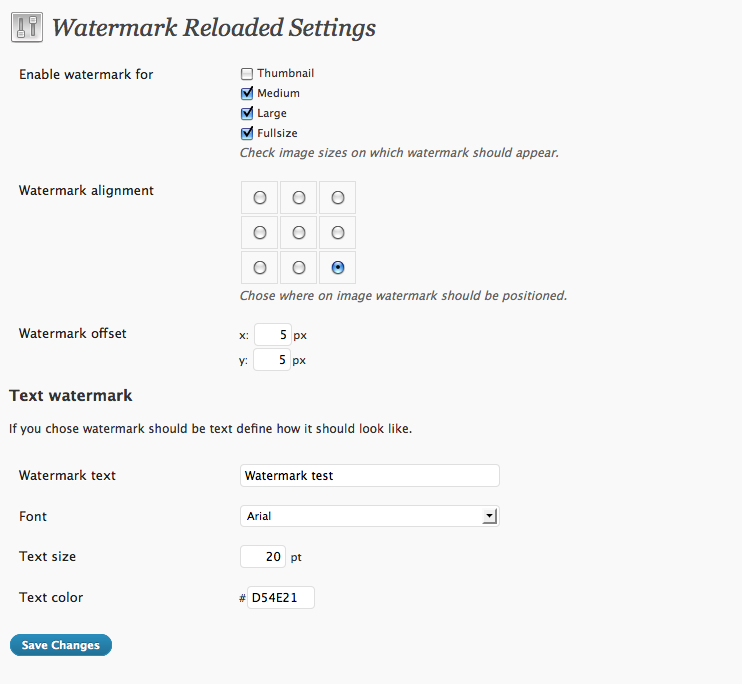
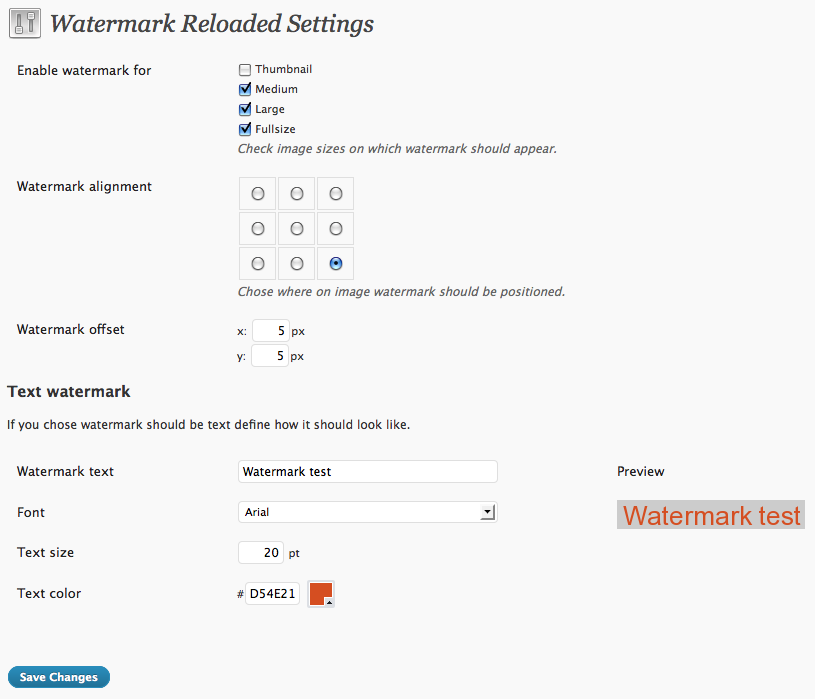
git-svn-id: https://plugins.svn.wordpress.org/watermark-reloaded/trunk@228416 b8457f37-d9ea-0310-8a92-e5e31aec5664

diff --git a/script.js b/script.js
@@ -1,14 +1,25 @@
 jQuery(document).ready(function() {
-	// hide color input field and show ColorPicker window
-	jQuery('#watermark_text_color_hash').hide();
-	jQuery('input[name="watermark_text[color]"]').hide();
+	// preview update trigger
+	updatePreview = function() {
+		jQuery('#previewImg_text').show();
+
+		jQuery('#previewImg_text').attr('src', location.href + '&watermarkPreview&' + unescape(jQuery('#watermark_text input, #watermark_text select').serialize()));
+	}
+	jQuery('#watermark_text input:text').keyup(updatePreview);
+	jQuery('#watermark_text select').change(updatePreview);
+	
+	// show color selector
 	jQuery('.colorSelector').show();
+	// define color selector events
 	jQuery('.colorSelector').ColorPicker({
 		color: jQuery('input[name="watermark_text[color]"]').val(),
 		onSubmit: function(hsb, hex, rgb, el) {
 			jQuery('.colorSelector div').css('background-color', '#' + hex);
 			jQuery('input[name="watermark_text[color]"]').val(hex);
 			jQuery(el).ColorPickerHide();
+			updatePreview();
 		}	
 	});
+	
+	updatePreview();
 });

diff --git a/style.css b/style.css
@@ -18,6 +18,10 @@ td.wr_width {
 	width: 100%;	
 }
 
+.wr_width [name="watermark_text[color]"] {
+	width: 55px;	
+}
+
 .wr_right {
 	width: none;
 	text-align: right;
@@ -29,10 +33,11 @@ td.wr_width {
 
 /* color selector style */
 .colorSelector {
+	left:70px;
+	top: -26px;
 	width: 36px;
 	height: 36px;
-	display: none;
-	margin-top: -5px;
+	position:relative;
 }
 
 .colorSelector div {

diff --git a/watermark-reloaded.php b/watermark-reloaded.php
@@ -6,7 +6,7 @@ class Watermark_Reloaded {
 	 *
 	 * @var string
 	 */
-	private $_version               = '1.1';
+	private $_version               = '1.2';
 	
 	/**
 	 * Array with default options
@@ -14,6 +14,8 @@ class Watermark_Reloaded {
 	 * @var array
 	 */
 	protected $_options             = array(
+		'watermark_donated'  => 0,
+		'watermark_hide_nag' => 0,
 		'watermark_on'       => array(),
 		'watermark_position' => 'bottom_right',
 		'watermark_offset'   => array(
@@ -34,6 +36,13 @@ class Watermark_Reloaded {
 	 * @var string
 	 */
 	protected $_plugin_dir          = null;
+	
+	/**
+	 * Settings url
+	 *
+	 * @var string
+	 */
+	protected $_settings_url        = null;
 	
 	/**
 	 * Path to dir containing fonts
@@ -97,6 +106,40 @@ class Watermark_Reloaded {
 		foreach($this->_options as $option => $value) {
 			add_option($option, $value, null, 'no');	
 		}
+	}
+	
+	/**
+	 * Create preview for admin
+	 *
+	 * @param array $opt
+	 */
+	public function createPreview(array $opt) {
+		// merge custom settings with default settings
+		$opt = $this->mergeConfArray($this->_options, $opt);
+		
+		// calculate required size of image
+		$bbox = $this->calculateBBox($opt);
+		$size = array(
+			'width'  => $bbox['width']  + $this->_options['watermark_offset']['x'] * 2,
+			'height' =>	$bbox['height'] + $this->_options['watermark_offset']['y'] * 2
+		);
+
+		// Create the image
+		$image = imagecreatetruecolor($size['width'], $size['height']);
+
+		// Add some background to image (#CCCCCC)
+		$color = imagecolorallocate($image, 204, 204, 204);
+		imagefilledrectangle($image, 0, 0, $size['width'], $size['height'], $color);
+		
+		// And finaly write text to image
+		$this->imageAddText($image, $opt);
+		
+		// Set the content-type
+		header('Content-type: image/png');
+		
+		// Output the image using imagepng()
+		imagepng($image);
+		imagedestroy($image);
 	}
 	
 	/**
@@ -383,24 +426,43 @@ class Watermark_Reloaded_Admin extends Watermark_Reloaded {
 	 *
 	 */
 	public function __construct() {
-		$this->_plugin_dir = DIRECTORY_SEPARATOR . str_replace(basename(__FILE__), null, plugin_basename(__FILE__)); 
+		$this->_plugin_dir   = DIRECTORY_SEPARATOR . str_replace(basename(__FILE__), null, plugin_basename(__FILE__));
+		$this->_settings_url = 'options-general.php?page=' . plugin_basename(__FILE__);;
 		
-		// register installer function
-		register_activation_hook(WR_LOADER, array(&$this, 'activateWatermark'));
+		$allowed_options = array(
+			'watermark_donated',
+			'watermark_hide_nag'
+		);
 		
-		// add plugin "Settings" action on plugin list
-		add_action('plugin_action_links_' . plugin_basename(WR_LOADER), array(&$this, 'add_plugin_actions'));
-		
-		// add links for plugin help, donations,...
-		add_filter('plugin_row_meta', array(&$this, 'add_plugin_links'), 10, 2);
-		
-		// push options page link, when generating admin menu
-		add_action('admin_menu', array(&$this, 'adminMenu'));
-
-		// check if post_id is "-1", meaning we're uploading watermark image
-		if(!(array_key_exists('post_id', $_REQUEST) && $_REQUEST['post_id'] == -1)) {
-			// add filter for watermarking images
-			add_filter('wp_generate_attachment_metadata', array(&$this, 'applyWatermark'));
+		// set watermark options
+		if(array_key_exists('option_name', $_GET) && array_key_exists('option_value', $_GET)
+			&& in_array($_GET['option_name'], $allowed_options)) {
+			update_option($_GET['option_name'], $_GET['option_value']);
+			
+			header("Location: " . $this->_settings_url);
+			die();	
+		// if user requested preview display preview image
+		} elseif(array_key_exists('watermarkPreview', $_GET)) {
+			$this->createPreview($_GET);
+			die();
+		} else {
+			// register installer function
+			register_activation_hook(WR_LOADER, array(&$this, 'activateWatermark'));
+			
+			// add plugin "Settings" action on plugin list
+			add_action('plugin_action_links_' . plugin_basename(WR_LOADER), array(&$this, 'add_plugin_actions'));
+			
+			// add links for plugin help, donations,...
+			add_filter('plugin_row_meta', array(&$this, 'add_plugin_links'), 10, 2);
+			
+			// push options page link, when generating admin menu
+			add_action('admin_menu', array(&$this, 'adminMenu'));
+	
+			// check if post_id is "-1", meaning we're uploading watermark image
+			if(!(array_key_exists('post_id', $_REQUEST) && $_REQUEST['post_id'] == -1)) {
+				// add filter for watermarking images
+				add_filter('wp_generate_attachment_metadata', array(&$this, 'applyWatermark'));
+			}
 		}
 	}
 	
@@ -488,6 +550,40 @@ class Watermark_Reloaded_Admin extends Watermark_Reloaded {
 	}
 	
 	/**
+	 * Nag a little bit for Donation :)
+	 */
+	private function donationsNag() {
+		$is_one_month = time() - $this->get_option('watermark_installed') > 60 * 60 * 24 * 30;
+		if($is_one_month && !$this->get_option('watermark_donated') && !$this->get_option('watermark_hide_nag')) {
+			$this->_messages['updated'][] = '<strong>' . PHP_EOL .
+				'Thanks for using this plugin! You\'ve installed this plugin over a month ago.' . PHP_EOL .
+				'If it works and you are satisfied with the results, isn\'t it worth at least a few Euros/Dollars?' . PHP_EOL .
+				'Donations  help me to continue support and development of this <em>free</em> software!' . PHP_EOL .
+				'<a href="http://randomplac.es/wordpress-plugins/donate/" target="_blank">Sure, no problem!</a>' . PHP_EOL .
+				'<a href="' . $this->_settings_url . '&option_name=watermark_donated&option_value=1" style="float: right; display: block; border: none; margin-left:10px;">' . PHP_EOL .
+					'<small style="font-weight: normal;">' . PHP_EOL .
+						'Sure, but I already did!' . PHP_EOL .
+					'</small>' . PHP_EOL .
+				'</a>' . PHP_EOL .
+				'<a href="' . $this->_settings_url . '&option_name=watermark_hide_nag&option_value=1" style="float: right; display: block; border: none;">' . PHP_EOL .
+					'<small style="font-weight: normal;">' . PHP_EOL .
+						'No thanks, please don\'t bug me anymore!' . PHP_EOL .
+					'</small>' . PHP_EOL .
+				'</a>' . PHP_EOL .
+				'</strong>';
+		} elseif($this->get_option('watermark_donated') && !$this->get_option('watermark_hide_nag')) {
+			$this->_messages['updated'][] = '<strong>' . PHP_EOL .
+				'Thank you very much for your donation. You help me to continue support and development of this plugin and other free software!' . PHP_EOL .
+				'<a href="' . $this->_settings_url . '&option_name=watermark_hide_nag&option_value=1">' . PHP_EOL .
+					'<small style="font-weight: normal;">' . PHP_EOL .
+						'Hide this notice' . PHP_EOL .
+					'</small>' . PHP_EOL .
+				'</a>' . PHP_EOL .
+				'</strong>';
+		}
+	}
+	
+	/**
 	 * Display options page
 	 */
 	public function optionsPage() {
@@ -510,6 +606,9 @@ class Watermark_Reloaded_Admin extends Watermark_Reloaded {
 				$this->_messages['error'] = 'Text watermarking requires FreeType Library.';
 			}
 		}
+		
+		// add donations nag messages
+		$this->donationsNag();
 	
 		foreach($this->_messages as $namespace => $messages) {
 			foreach($messages as $message) {
@@ -617,6 +716,7 @@ class Watermark_Reloaded_Admin extends Watermark_Reloaded {
 							
 							</fieldset>
 						</td>
+						<th scope="row" class="nowidth">Preview</th>
 					</tr>
 
 					<tr valign="top">
@@ -637,6 +737,9 @@ class Watermark_Reloaded_Admin extends Watermark_Reloaded {
 								</select>
 							
 							</fieldset>
+						</td>
+						<td rowspan="3">
+							<img id="previewImg_text" src="" alt="" />
 						</td>
 					</tr>
 					

diff --git a/watermark-loader.php b/watermark-loader.php
@@ -3,7 +3,7 @@
 Plugin Name: Watermark RELOADED
 Plugin URI: http://randomplac.es/wordpress-plugins/watermark-reloaded/
 Description: Add watermark to your uploaded images and customize your watermark appearance in user friendly settings page.
-Version: 1.1
+Version: 1.2
 Author: Sandi Verdev
 Author URI: http://randomplac.es/
 */
